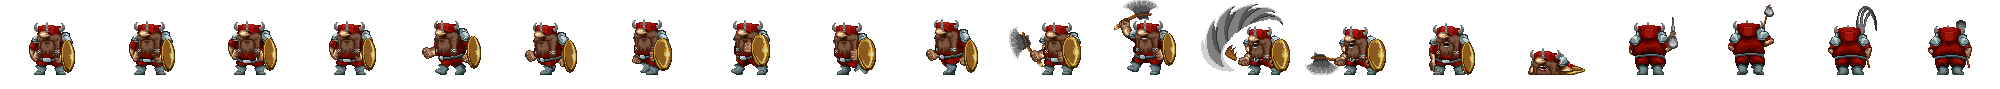
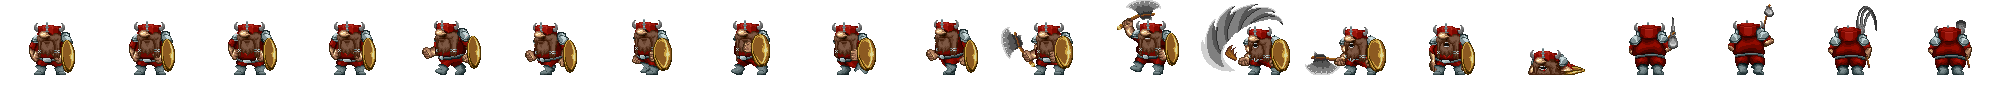
se pulieron detalles como numeros de variables y se acomodaron un poco las imagenes de los sprites

Changed region(s): [[0.496, 0.0, 0.589, 0.8539]]

diff --git a/actor/jugador.py b/actor/jugador.py
@@ -21,12 +21,12 @@ class Jugador(Actor):
         self.animacion.definir_animacion('parado', [0, 1, 2 , 3], 6)
         self.animacion.definir_animacion('caminar', [4 ,5, 6, 7, 8, 9], 15)
         self.animacion.definir_animacion('saltando', [5], 1)
-        self.animacion.definir_animacion('golpeando',[10,11,12,13,14], 13)
+        self.animacion.definir_animacion('golpeando',[11,12,13,14,10], 10)
+        self.alturaSalto = 60
 
 
     def actualizar(self):
         self.imagen.avanzar()
-        salto = 60
         self.x = self.figura.x
         self.y = self.figura.y
         self.pilas.camara.x = self.x
@@ -39,8 +39,8 @@ class Jugador(Actor):
         elif self.pilas.control.boton:
             if self.puedoPegar:
                 self.puedoPegar = False
-                self.golpe = Golpe(self.pilas,self.x +(self.direccion * 40) , self.y)
-                self.enfriamiento = self.pilas.tareas.agregar(0.5, self.terminarCoolddown,self.golpe)
+                self.golpe = Golpe(self.pilas,self.x +(self.direccion * 30) , self.y)
+                self.enfriamiento = self.pilas.tareas.agregar(0.1, self.terminarCoolddown,self.golpe)
                 self.figura.velocidad_x = 0
                 self.imagen.cargar_animacion('golpeando')
 
@@ -51,7 +51,7 @@ class Jugador(Actor):
 
         if self.esta_pisando_el_suelo():
             if self.pilas.control.arriba and int(self.figura.velocidad_y) <= 0:
-                self.figura.impulsar(0, salto)
+                self.figura.impulsar(0, self.alturaSalto)
 
 
         self.sensor_pies.x = self.x
@@ -79,11 +79,13 @@ class Jugador(Actor):
         if self.powerUp is not None:
             self.powerUp.terminar()
             self.powerUp = None
-        self.velocidad = 15
+        self.velocidad = 20
+        self.alturaSalto = 100
         self.powerUp = self.pilas.tareas.agregar(10, self.normalizar)
 
     def normalizar(self):
         self.velocidad = 10
+        self.alturaSalto = 60
         self.powerUp.terminar()
         self.powerUp = None
 

diff --git a/escena/pantallaDeJuego.py b/escena/pantallaDeJuego.py
@@ -14,18 +14,20 @@ class PantallaJuego(pilasengine.escenas.Escena):
         pilas.fisica.eliminar_paredes()
         pilas.fisica.eliminar_suelo()
         pilas.escena.fisica.eliminar_techo()
-        self.sp = SoundPool(100)
-        self.s = Sonido("audio/menu/opcion.ogg")
+        #self.sp = SoundPool(100)
+        #self.s = Sonido("audio/menu/opcion.ogg")
         self.p = pilas
         self.mapa = pilas.actores.MapaTiled('archivo.tmx')
         self.jugador = Jugador(pilas,ejeX=-700, ejeY=270)
         self.enemigo1 = Enemigo(pilas,ejeX=400, ejeY=270)
-        self.enemigo2 = Enemigo(pilas,ejeX=300, ejeY=270)
-        self.enemigo3 = Enemigo(pilas,ejeX=-200, ejeY=270)
+        self.enemigo4 = Enemigo(pilas,ejeX=-190, ejeY=-33)
+        self.enemigo4 = Enemigo(pilas,ejeX=-190, ejeY=-481)
+        self.enemigo5 = Enemigo(pilas,ejeX=-700, ejeY=-705)
         self.ponerGrupoDePinches(-500, 207)
-        self.ponerGrupoDePinches(-200, 207)
-        self.ponerGrupoDePinches(200, 207)
-        self.ponerGrupoDePinches(400, 207)
+        self.ponerGrupoDePinches(-300, 207)
+
+        self.ponerGrupoDePinches(280, 207)
+        self.ponerGrupoDePinches(0, -720)
 
         pilas.colisiones.agregar('Jugador', 'Enemigo', self.morir)
         pilas.colisiones.agregar('Jugador', 'Pinche', self.morir)
@@ -37,7 +39,7 @@ class PantallaJuego(pilasengine.escenas.Escena):
 
     def potenciarJugador(self,jugador, powerUp):
         #self.s.reproducir("opcion","menu")
-        self.s.reproducir()
+        #self.s.reproducir()
         self.jugador.potenciar()
         powerUp.eliminar()
 
@@ -45,7 +47,7 @@ class PantallaJuego(pilasengine.escenas.Escena):
         enemigo.morir()
 
     def ponerGrupoDePinches(self, x , y):
-        self.pinche1  = Pinche(self.pilas, ejeX= x   ,  ejeY=y)
+        self.pinche1  = Pinche(self.pilas, ejeX= x    ,  ejeY=y)
         self.pinche1  = Pinche(self.pilas, ejeX= x -35, ejeY=y)
         self.pinche1  = Pinche(self.pilas, ejeX= x -70, ejeY=y)
 

diff --git a/actor/enemigo.py b/actor/enemigo.py
@@ -7,18 +7,31 @@ from actor.powerUp import PowerUp
 
 class Enemigo(Actor):
     def iniciar(self, ejeX=0, ejeY=0):
+
+        # el enemigo se ubica en las coordenadas dadas, si no se le alcanza ningun x o y este iniciara en el punto (0,0)
         self.x = ejeX
         self.y = ejeY
-        self.velocidad_x = 0.1
+
+        # se le define una imagen al enemigo
         self.imagen = "imagenes/actor/enemigo.png"
+
+        #se le define una velocidad al enemigo
+        self.velocidad = 8
+
+        #se le define una escala al enemigo
         self.escala = 1
+
+        #se crean figuras de colision y se ajustan 
         self.figura = self.pilas.fisica.Circulo(self.x, self.y, 17, friccion=0, restitucion=0)
         self.figura_de_colision.escala = 3.5
-        self.velocidad = 8
         self.figura.sin_rotacion = True
         self.figura.escala_de_gravedad = 3.5
+
+        #se crea el comportamiento de moverse de un lado a otro
         self.actualizacion = self.pilas.tareas.siempre(1.5, self.cambiarDireccion)
         self.direccionDerecha = True
+
+        #se le da una lista de items para que suelte cuando muera
         self.items = [PowerUp,None]
 
 
@@ -49,12 +62,11 @@ class Enemigo(Actor):
 
 
     def soltarItem(self):
-        var = self.items [random.randint(0,1)]
+        var = self.items [random.randint(0,(len(self.items) - 1) )]
         if var is not None:
             var(self.pilas,ejeX=self.x, ejeY=self.y)
 
     def morir(self):
-        self.actualizacion.terminar()
         self.figura.eliminar()
         self.eliminar()
         self.soltarItem()

diff --git a/escena/JuegoTerminado.py b/escena/JuegoTerminado.py
@@ -18,6 +18,12 @@ class PantallaJuegoTerminado(pilasengine.escenas.Escena):
         texto_codigo2 = self.pilas.actores.Texto(self.frasesDeMuerte [random.randint(0,4)])
         texto_codigo2.escala = 0.5
         texto_codigo.y = 100
-        self.volverAJugar = VolverAJugar(pilas, 0 , -123)
+        self.pilas.eventos.pulsa_tecla_escape.conectar(self.activar_menu_principal)
+
+
+    def activar_menu_principal(self, evento):
+        self.pilas.escenas.PantallaJuego(pilas=self.pilas)
+
+
 
 

diff --git a/main.py b/main.py
@@ -7,9 +7,6 @@ from actor.powerUp import PowerUp
 from actor.golpe import Golpe
 from actor.pinche import Pinche
 
-
-
-
 pilas = pilasengine.iniciar(titulo='Crystal - alpha', habilitar_mensajes_log=False)
 
 pilas.escenas.vincular(PantallaJuegoTerminado)

diff --git a/README.md b/README.md
@@ -1,2 +1,8 @@
 # Crystal.tp2
-es un juego de plataformas, creado en pilas engine
+Juego de plataformas creado en Pilas engine (Python 2.7).
+El juego solo se puede ejecutar solo en Windows (problemas de compatibilidad con las librerias de sonido)
+para que el juego se ejecute se necesita el paquete sound_lib
+
+Platform game created in Pilas engine (Python 2.7)
+The game can only be executed only in windows (compatibility problems with sound libraries)
+the sound_lib package is needed for the game to run
